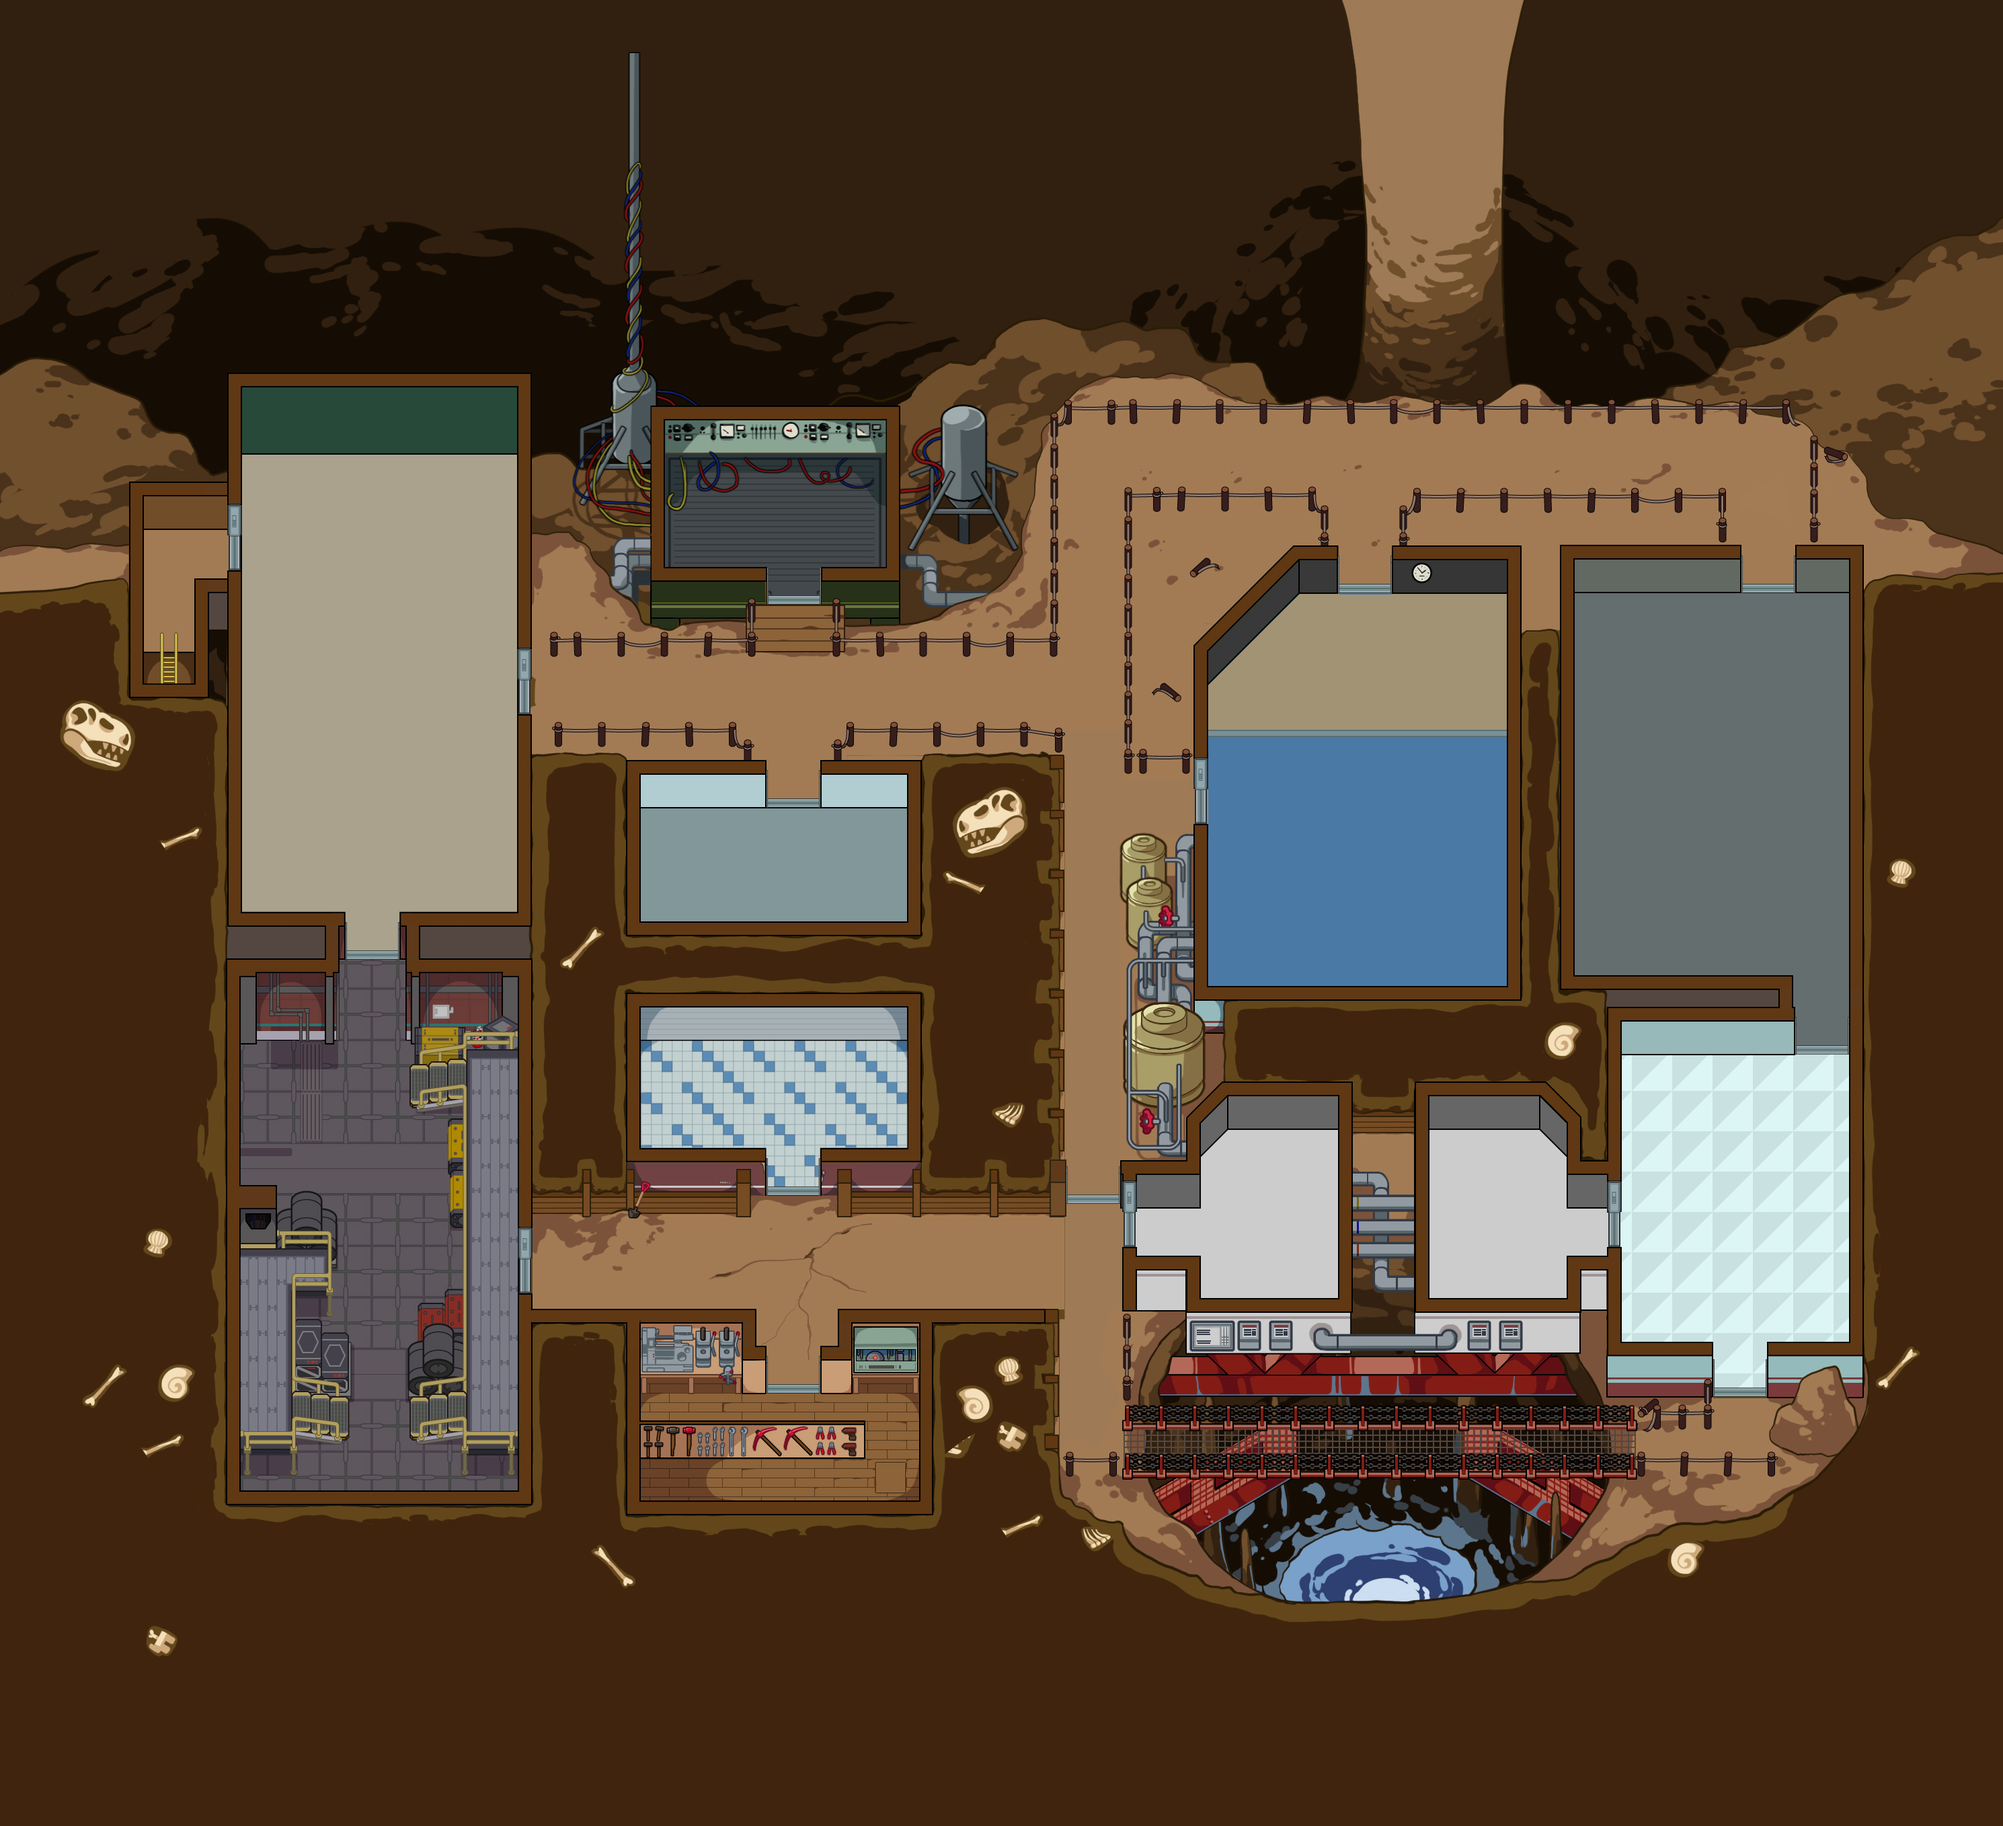
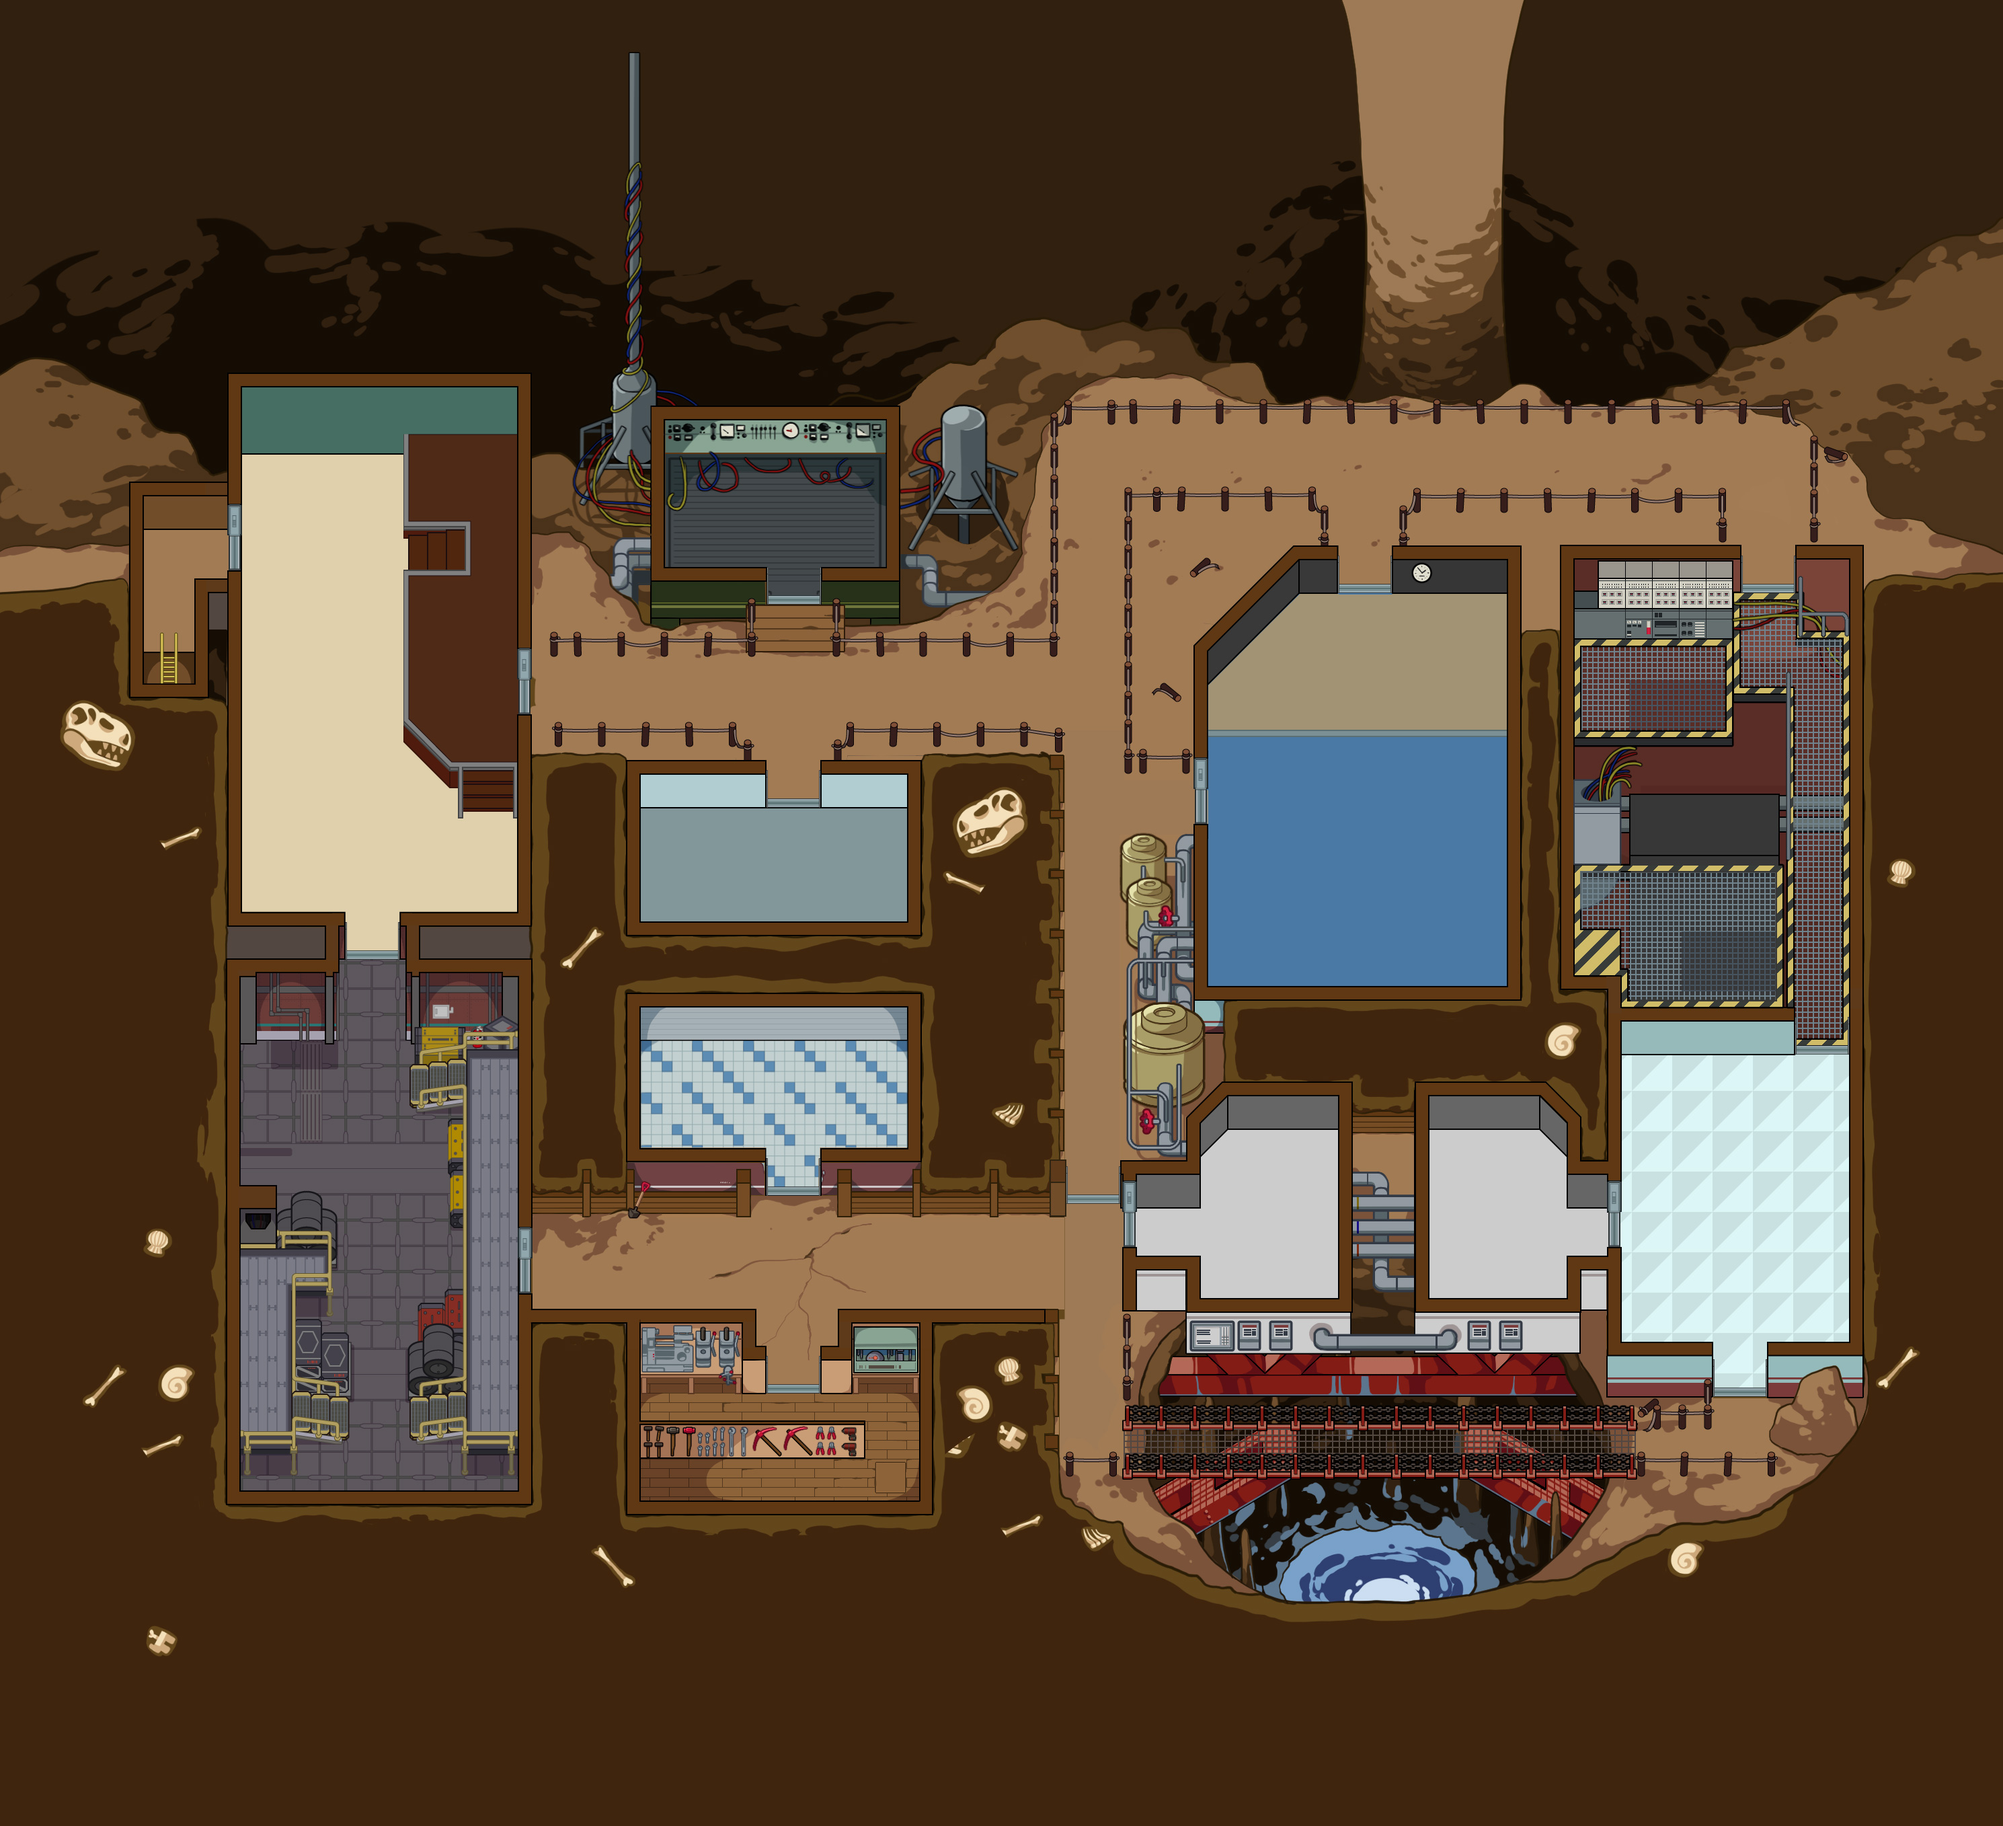
マップをアップデート(特にエレキ)

Changed region(s): [[0.0937, 0.1856, 0.281, 0.526], [0.7805, 0.3094, 0.9366, 0.5878]]

diff --git a/SuperNewRoles/Map/Agartha/Patch/SetPosition.cs b/SuperNewRoles/Map/Agartha/Patch/SetPosition.cs
@@ -218,6 +218,17 @@ namespace SuperNewRoles.Map.Agartha.Patch
             Object_Projecter_Animation.Sprites = CustomAnimation.LoadSprites.GetSpritesAgartha("SuperNewRoles.Resources.Agartha.Animation.pro", 32);
             Object_Projecter.localScale *= 2.5f;
 
+            Transform Object_Electric = GameObject.Instantiate(Template, MiraShip);
+            Object_Electric.position = new Vector3(21.35f, 15.47f, 0.1f);
+            GameObject.Destroy(Object_Electric.GetComponent<PolygonCollider2D>());
+            Object_Electric.GetComponent<SpriteRenderer>().sprite = ImageManager.AgarthagetSprite("Animation.electric_0001");
+            Object_Electric.gameObject.AddComponent<PolygonCollider2D>();
+            Object_Electric.name = "Object_Electric";
+            CustomAnimation.Animation Object_Electric_Animation = new CustomAnimation.Animation();
+            Object_Electric_Animation.Start(8, Object_Electric);
+            Object_Electric_Animation.Sprites = CustomAnimation.LoadSprites.GetSpritesAgartha("SuperNewRoles.Resources.Agartha.Animation.electric", 8);
+            Object_Electric.localScale = new Vector3(1.75f, 1.75f, 1.75f);
+
             Transform Comms_Object_CommsTable = GameObject.Instantiate(Template, MiraShip);
             Comms_Object_CommsTable.position = new Vector3(-0.35f, 22.7f, 0.1f);
             Comms_Object_CommsTable.GetComponent<SpriteRenderer>().sprite = ImageManager.AgarthagetSprite("Comms_Table");
@@ -551,7 +562,7 @@ namespace SuperNewRoles.Map.Agartha.Patch
             MeetingRoomVentObject.transform.position = new Vector3(15.8f, 11.5f, 0.1f);
             MeetingRoomVentObject.localScale = new Vector3(1.2f, 1.2f, 1.2f);
 
-            ElecRoomVentObject.transform.position = new Vector3(19.6f, 11.8f, 0.1f);
+            ElecRoomVentObject.transform.position = new Vector3(18.9f, 11.65f, 0.1f);
             ElecRoomVentObject.localScale = new Vector3(1.2f, 1.2f, 1.2f);
 
             LaboVentObject.transform.position = new Vector3(24.3f, 8.6f, 0.1f);

diff --git a/SuperNewRoles/Map/Agartha/Patch/SetTasksClass.cs b/SuperNewRoles/Map/Agartha/Patch/SetTasksClass.cs
@@ -382,7 +382,8 @@ namespace SuperNewRoles.Map.Agartha.Patch
 
             Transform Powerdown = Miraship.FindChild("Office").FindChild("SwitchConsole");
             Powerdown.gameObject.SetActive(true);
-            Powerdown.position = new Vector3(19.8f, 14.7f, 0.1f);
+            Powerdown.position = new Vector3(19f, 19.25f, 0.1f);
+            Powerdown.localScale = new Vector3(1.25f, 1.25f, 1.25f);
         }
         [HarmonyPatch(typeof(ShipStatus),nameof(ShipStatus.OnEnable))]
         class EnablePatch

diff --git a/SuperNewRoles/CustomAnimation/Animation.cs b/SuperNewRoles/CustomAnimation/Animation.cs
@@ -43,7 +43,6 @@ namespace SuperNewRoles.CustomAnimation
             if (Updatetime <= 0)
             {
                 render.sprite = Sprites[index];
-                SuperNewRolesPlugin.Logger.LogInfo("アップデート！");
                 index++;
                 if (Sprites.Length <= index)
                 {
